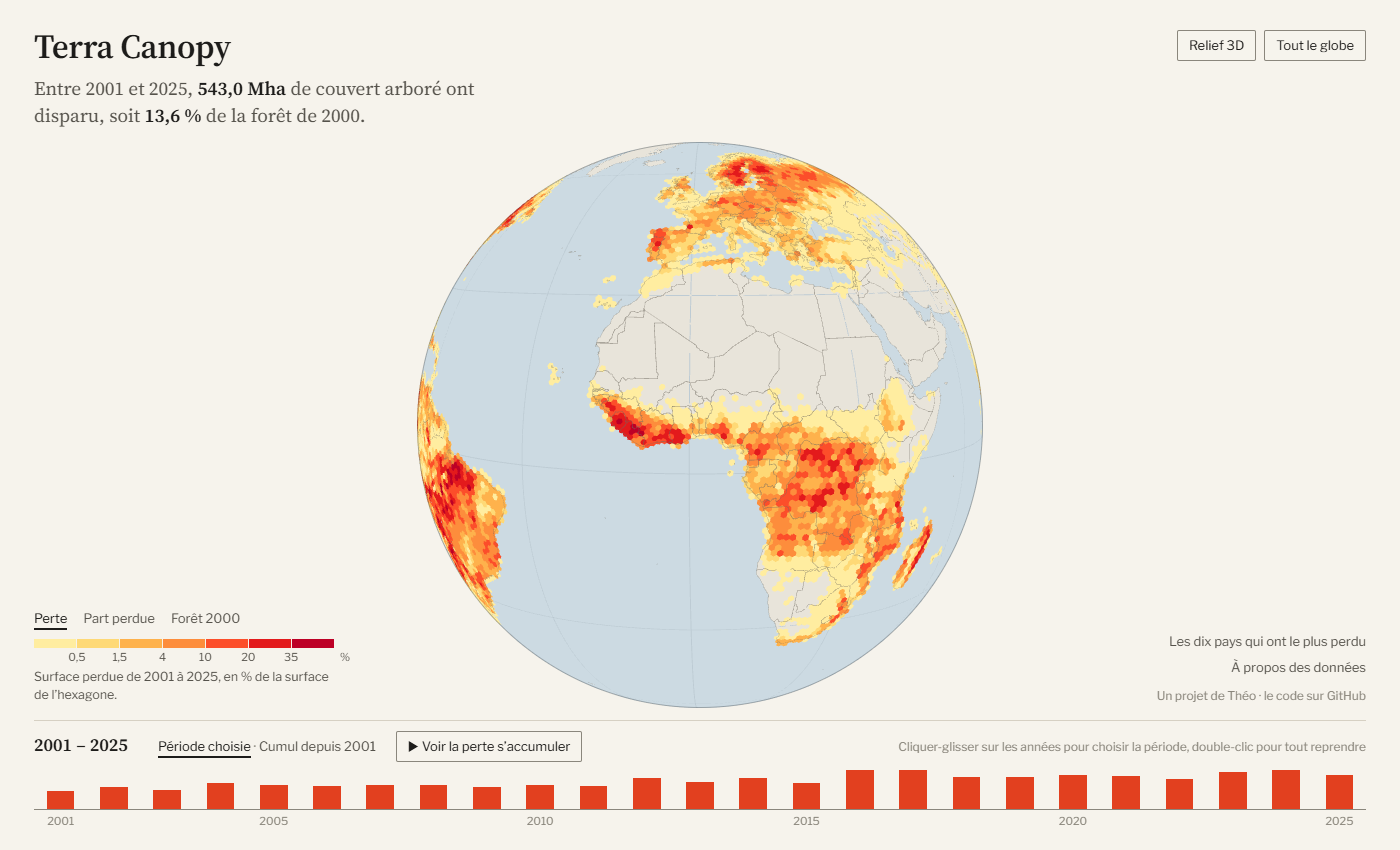
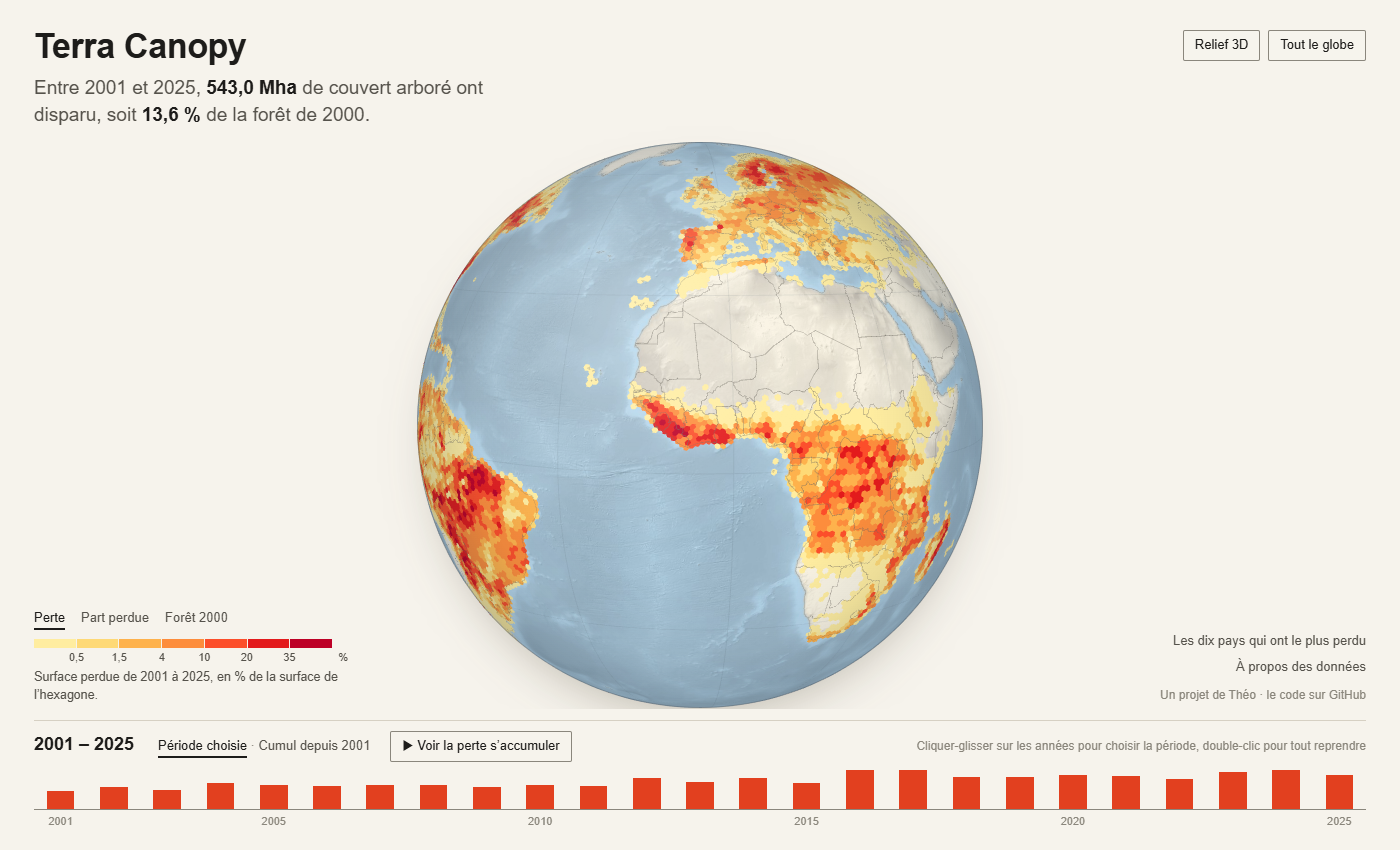
Police Arial, relief ombre Natural Earth sous les hexagones, volume du globe

diff --git a/web/src/style.css b/web/src/style.css
@@ -1,5 +1,5 @@
-/* Style « article de presse » : fond papier, titres a empattements, texte noir, aucun effet de
-   lumiere. Les couleurs vives sont reservees aux donnees. */
+/* Style « article de presse » : fond papier, tout en Arial, texte noir, aucun effet de lumiere.
+   Les couleurs vives sont reservees aux donnees. */
 :root {
   --papier: #f6f3ec;
   --carte-blanche: #fffdf8;
@@ -8,8 +8,7 @@
   --encre-3: #8a867c;
   --filet: #d6d0c3;
   --rouge: #e2401f;
-  --serif: 'Source Serif 4', Georgia, 'Times New Roman', serif;
-  --sans: 'Libre Franklin', 'Helvetica Neue', Arial, sans-serif;
+  --police: Arial, 'Helvetica Neue', Helvetica, sans-serif;
   color-scheme: light;
 }
 
@@ -18,7 +17,7 @@ html, body, #root { margin: 0; height: 100%; }
 body {
   background: var(--papier);
   color: var(--encre);
-  font-family: var(--sans);
+  font-family: var(--police);
   font-size: 14px;
   line-height: 1.45;
   overflow: hidden;
@@ -27,8 +26,19 @@ body {
 .appli { position: relative; width: 100vw; height: 100vh; }
 .carte { position: absolute; inset: 0; overflow: hidden; background: var(--papier); }
 
-/* bord du globe : un simple trait gris, comme sur une carte imprimee */
-.bord-globe { position: absolute; pointer-events: none; border-radius: 50%; border: 1px solid rgba(60, 70, 78, 0.4); }
+/* bord du globe : un trait gris fin et une ombre douce posee sur le papier */
+.bord-globe {
+  position: absolute; pointer-events: none; border-radius: 50%; border: 1px solid rgba(60, 70, 78, 0.35);
+  box-shadow: 0 24px 50px -22px rgba(70, 60, 40, 0.35);
+}
+/* volume du globe : plus sombre vers le bord, un peu plus clair en haut a gauche, comme un globe
+   d'atlas eclaire de biais */
+.volume-globe {
+  position: absolute; pointer-events: none; border-radius: 50%;
+  background:
+    radial-gradient(circle at 36% 30%, rgba(255, 255, 255, 0.22), rgba(255, 255, 255, 0) 45%),
+    radial-gradient(closest-side, rgba(25, 40, 55, 0) 60%, rgba(25, 40, 55, 0.08) 82%, rgba(25, 40, 55, 0.24) 100%);
+}
 
 /* tout ce qui est pose sur le globe : le texte laisse passer la souris, sauf les commandes */
 .habillage { position: absolute; inset: 0; pointer-events: none; z-index: 3; }
@@ -57,8 +67,8 @@ body {
 .habillage .puce[aria-pressed='true'] { background: var(--encre); color: var(--papier); border-color: var(--encre); }
 
 .titre { position: absolute; top: 18px; left: 22px; max-width: 494px; padding: 10px 12px 12px; }
-.titre h1 { margin: 0; font-family: var(--serif); font-size: 34px; font-weight: 600; line-height: 1.1; letter-spacing: -0.01em; }
-.phrase { margin: 10px 0 0; font-family: var(--serif); font-size: 19px; line-height: 1.4; color: var(--encre-2); }
+.titre h1 { margin: 0; font-family: var(--police); font-size: 34px; font-weight: 600; line-height: 1.1; letter-spacing: -0.01em; }
+.phrase { margin: 10px 0 0; font-family: var(--police); font-size: 19px; line-height: 1.4; color: var(--encre-2); }
 .phrase em { font-style: normal; font-weight: 600; color: var(--encre); font-variant-numeric: lining-nums; }
 .sep { color: var(--encre-3); }
 
@@ -93,7 +103,7 @@ body {
 .frise::before { content: ''; position: absolute; z-index: -1; left: -34px; right: -34px; top: -12px; bottom: -20px; background: var(--papier); }
 .frise-tete { display: flex; justify-content: space-between; align-items: baseline; gap: 16px; margin-bottom: 8px; font-size: 12px; color: var(--encre-3); }
 .frise-gauche { display: flex; align-items: baseline; flex-wrap: wrap; column-gap: 20px; row-gap: 6px; }
-.frise-periode { font-family: var(--serif); font-size: 18px; font-weight: 600; color: var(--encre); min-width: 104px; font-variant-numeric: tabular-nums; }
+.frise-periode { font-family: var(--police); font-size: 18px; font-weight: 600; color: var(--encre); min-width: 104px; font-variant-numeric: tabular-nums; }
 .frise-modes { font-size: 13px; }
 .frise-barres {
   display: flex; height: 40px; border-bottom: 1px solid var(--encre-3);
@@ -114,10 +124,10 @@ body {
   border: 1px solid var(--filet); box-shadow: 0 6px 24px rgba(40, 35, 25, 0.12);
   font-size: 14px; text-shadow: none;
 }
-.volet h2 { margin: 0 0 10px; font-family: var(--serif); font-size: 18px; font-weight: 600; line-height: 1.3; }
-.volet p { margin: 8px 0 0; font-family: var(--serif); font-size: 15px; line-height: 1.5; color: var(--encre-2); }
+.volet h2 { margin: 0 0 10px; font-family: var(--police); font-size: 18px; font-weight: 600; line-height: 1.3; }
+.volet p { margin: 8px 0 0; font-family: var(--police); font-size: 15px; line-height: 1.5; color: var(--encre-2); }
 .volet a { color: var(--encre); text-decoration-color: var(--encre-3); }
-.volet .note { font-family: var(--sans); font-size: 12px; color: var(--encre-3); }
+.volet .note { font-family: var(--police); font-size: 12px; color: var(--encre-3); }
 .classement { margin: 0; padding-left: 22px; color: var(--encre-3); font-size: 12px; font-variant-numeric: tabular-nums; }
 .classement li { border-bottom: 1px solid #ece7dc; }
 .classement button {
@@ -136,12 +146,12 @@ body {
   border-radius: 2px;
   padding: 9px 12px !important;
   color: var(--encre) !important;
-  font-family: var(--sans);
+  font-family: var(--police);
   font-size: 13px;
   min-width: 210px;
   box-shadow: 0 4px 16px rgba(40, 35, 25, 0.15);
 }
-.bulle-titre { margin-bottom: 5px; font-family: var(--serif); font-size: 15px; font-weight: 600; }
+.bulle-titre { margin-bottom: 5px; font-family: var(--police); font-size: 15px; font-weight: 600; }
 .bulle-ligne { display: flex; justify-content: space-between; gap: 12px; color: var(--encre-2); }
 .bulle-ligne b { font-weight: 600; color: var(--encre); font-variant-numeric: tabular-nums; }
 .bulle-graphique { display: block; margin-top: 7px; }

diff --git a/web/src/App.jsx b/web/src/App.jsx
@@ -3,13 +3,14 @@ import DeckGL from '@deck.gl/react';
 import {
   _GlobeView as GlobeView,
   _GlobeViewport as GlobeViewport,
+  COORDINATE_SYSTEM,
   AmbientLight,
   DirectionalLight,
   LightingEffect,
   LinearInterpolator,
 } from '@deck.gl/core';
 import { H3HexagonLayer } from '@deck.gl/geo-layers';
-import { GeoJsonLayer, PathLayer, SolidPolygonLayer } from '@deck.gl/layers';
+import { BitmapLayer, GeoJsonLayer, PathLayer, SolidPolygonLayer } from '@deck.gl/layers';
 import { latLngToCell } from 'h3-js';
 
 import { chargerBase, chargerPaquet, valeur, perte, formaterHa, formaterPart, formaterKm2 } from './donnees.js';
@@ -17,9 +18,12 @@ import { couleur, hauteur, echellePeriode, seuilsPour, FACTEUR_MIN, FACTEUR_MAX,
 import Panneau from './Panneau.jsx';
 
 const VUE_GLOBE = new GlobeView({ id: 'globe', resolution: 5 });
-// couleurs claires de carte imprimee : ocean gris-bleu, terres beige clair
-const OCEAN = [204, 218, 226];
-const TERRE = [232, 228, 218];
+// fond de carte : relief ombre de Natural Earth (1:50m, terres et fonds marins), colore en creme
+// pour les terres et en bleu pour l'ocean (script pipeline/fond_relief.py). L'ocean et les terres en
+// aplat restent dessous, le temps que l'image arrive.
+const FOND_RELIEF = `${import.meta.env.BASE_URL}fond-relief.jpg`;
+const OCEAN = [172, 203, 222];
+const TERRE = [238, 232, 217];
 const MONDE = [[[-180, 90], [0, 90], [180, 90], [180, -90], [0, -90], [-180, -90]]];
 const ARETE_KM = { 2: 182.5, 3: 69.0, 4: 26.07, 5: 9.85, 6: 3.72 }; // cote moyen des hexagones H3 (h3 4.5, average_hexagon_edge_length)
 const ARETE_MIN_PX = 3; // on prend la resolution la plus fine dont les hexagones font au moins ca a l'ecran
@@ -146,6 +150,7 @@ export default function App() {
   const [lecture, setLecture] = useState(false);
   const [affiche, setAffiche] = useState({ r: 2, hexagones: [] });
   const [chargement, setChargement] = useState(false);
+  const [fondRelief, setFondRelief] = useState(null);
   const touche = useRef(false); // le globe tourne seul tant qu'on n'y a pas touche
   const carte = useRef(null);
 
@@ -156,6 +161,14 @@ export default function App() {
         setPeriode([0, d.resume.annees.length - 1]);
       })
       .catch((e) => setErreur(e.message));
+  }, []);
+
+  // l'image du relief est chargee a part : tant qu'elle n'est pas la, on affiche l'ocean et les
+  // terres en aplat, puis on les retire (deux surfaces a la meme altitude se melangent a l'ecran)
+  useEffect(() => {
+    const image = new Image();
+    image.onload = () => setFondRelief(image);
+    image.src = FOND_RELIEF;
   }, []);
 
   // taille de la zone de carte, pour calculer le zoom de depart et ce qui est visible
@@ -266,6 +279,10 @@ export default function App() {
     lumiere.soleil.direction = l.map((x) => -x / nl);
   }
   const montrerBord = bord && taille && bord.rx < 4 * Math.max(taille.largeur, taille.hauteur);
+  // l'ombrage qui donne du volume au globe s'efface quand on s'approche : de pres, il assombrirait
+  // seulement un cote de l'ecran
+  const grand = taille ? Math.max(taille.largeur, taille.hauteur) : 1;
+  const opaciteVolume = montrerBord ? Math.min(1, Math.max(0, (1.2 * grand - bord.rx) / (0.5 * grand))) : 0;
 
   const resolution = vue ? choisirResolution(vue) : 2;
 
@@ -307,7 +324,19 @@ export default function App() {
 
   const couches = donnees
     ? [
-        new SolidPolygonLayer({ id: 'ocean', data: MONDE, getPolygon: (d) => d, getFillColor: OCEAN }),
+        ...(fondRelief
+          ? [
+              new BitmapLayer({
+                id: 'relief-du-terrain',
+                image: fondRelief,
+                bounds: [-180, -90, 180, 90],
+                _imageCoordinateSystem: COORDINATE_SYSTEM.LNGLAT,
+              }),
+            ]
+          : [
+              new SolidPolygonLayer({ id: 'ocean', data: MONDE, getPolygon: (d) => d, getFillColor: OCEAN }),
+              new GeoJsonLayer({ id: 'terres', data: donnees.terres, filled: true, stroked: false, getFillColor: TERRE }),
+            ]),
         new PathLayer({
           id: 'grille',
           data: GRILLE,
@@ -316,7 +345,6 @@ export default function App() {
           getWidth: 1,
           widthUnits: 'pixels',
         }),
-        new GeoJsonLayer({ id: 'terres', data: donnees.terres, filled: true, stroked: false, getFillColor: TERRE }),
         new H3HexagonLayer({
           id: `hexagones-${affiche.r}`,
           data: affiche.hexagones,
@@ -401,7 +429,14 @@ export default function App() {
             getTooltip={({ object }) => (donnees ? infobulle(object, donnees, debut, fin) : null)}
           />
         )}
-        {/* bord du globe : un trait gris fin */}
+        {/* volume du globe : un ombrage doux vers le bord et un peu de clarte en haut a gauche, puis
+            le trait gris fin du bord */}
+        {montrerBord && opaciteVolume > 0 && (
+          <div
+            className="volume-globe"
+            style={{ left: bord.cx - bord.rx, top: bord.cy - bord.ry, width: 2 * bord.rx, height: 2 * bord.ry, opacity: opaciteVolume }}
+          />
+        )}
         {montrerBord && (
           <div className="bord-globe" style={{ left: bord.cx - bord.rx, top: bord.cy - bord.ry, width: 2 * bord.rx, height: 2 * bord.ry }} />
         )}

diff --git a/web/src/Panneau.jsx b/web/src/Panneau.jsx
@@ -241,7 +241,7 @@ export default function Panneau({
           <p>
             Données : <a href="https://glad.earthengine.app/view/global-forest-change" target="_blank" rel="noreferrer">Hansen et al. (2013), Science 342</a>,
             version {resume.version}, {resume.nb_tuiles} tuiles de pixels de 30 m regroupées en hexagones H3.
-            Pays : <a href="https://www.naturalearthdata.com/" target="_blank" rel="noreferrer">Natural Earth</a>.
+            Pays et relief du fond de carte : <a href="https://www.naturalearthdata.com/" target="_blank" rel="noreferrer">Natural Earth</a>.
           </p>
           <p>
             Projet réalisé par Théo (theocode31). Le code, le calcul et le journal du projet sont sur{' '}

diff --git a/web/index.html b/web/index.html
@@ -5,9 +5,6 @@
     <meta name="viewport" content="width=device-width, initial-scale=1.0" />
     <meta name="description" content="Carte mondiale de la perte de couvert arboré de 2001 à 2025, d'après Hansen Global Forest Change, agrégée en hexagones H3." />
     <title>Terra Canopy</title>
-    <link rel="preconnect" href="https://fonts.googleapis.com" />
-    <link rel="preconnect" href="https://fonts.gstatic.com" crossorigin />
-    <link href="https://fonts.googleapis.com/css2?family=Libre+Franklin:wght@400;500;600&family=Source+Serif+4:opsz,wght@8..60,400;8..60,600&display=swap" rel="stylesheet" />
   </head>
   <body>
     <div id="root"></div>

diff --git a/pipeline/fond_relief.py b/pipeline/fond_relief.py
@@ -1,0 +1,61 @@
+"""Fond de carte pour Terra Canopy : relief ombre de Natural Earth (Gray Earth with Shaded Relief,
+Hypsography and Ocean Bottom, 1:50m), colore en creme pour les terres et en bleu pour l'ocean.
+
+usage : python -I fond_relief.py <zip> <terres.json> <sortie.jpg> <apercu.png>
+"""
+import json
+import sys
+import zipfile
+from pathlib import Path
+
+import numpy as np
+from PIL import Image, ImageDraw, ImageFilter
+
+Image.MAX_IMAGE_PIXELS = None
+LARGEUR, HAUTEUR = 4096, 2048
+TERRE = np.array([238, 232, 217], dtype=np.float32)
+OCEAN = np.array([172, 203, 222], dtype=np.float32)
+
+zip_chemin, terres_chemin, sortie, apercu = map(Path, sys.argv[1:5])
+
+# extraction prudente : seulement les fichiers a la racine de l'archive
+dossier = zip_chemin.parent / 'x'
+dossier.mkdir(exist_ok=True)
+with zipfile.ZipFile(zip_chemin) as z:
+    for info in z.infolist():
+        n = info.filename
+        if '/' in n or '\\' in n or '..' in n:
+            continue
+        z.extract(info, dossier)
+tif = next(dossier.glob('*.tif'))
+print('raster', tif.name)
+
+img = Image.open(tif)
+print('taille', img.size, img.mode)
+gris = np.asarray(img.convert('L').resize((LARGEUR, HAUTEUR), Image.LANCZOS), dtype=np.float32) / 255
+
+# masque des terres, a partir des memes polygones que les frontieres du site
+masque = Image.new('L', (LARGEUR, HAUTEUR), 0)
+dessin = ImageDraw.Draw(masque)
+def px(lon, lat):
+    return ((lon + 180) / 360 * LARGEUR, (90 - lat) / 180 * HAUTEUR)
+for f in json.loads(terres_chemin.read_text(encoding='utf-8'))['features']:
+    g = f['geometry']
+    polys = [g['coordinates']] if g['type'] == 'Polygon' else g['coordinates']
+    for p in polys:
+        dessin.polygon([px(*c[:2]) for c in p[0]], fill=255)
+m = np.asarray(masque.filter(ImageFilter.GaussianBlur(1.2)), dtype=np.float32) / 255
+
+terre, mer = m > 0.5, m < 0.5
+for nom, sel in (('terre', terre), ('ocean', mer)):
+    print(nom, 'percentiles 5/25/50/75/95', np.percentile(gris[sel], [5, 25, 50, 75, 95]).round(3))
+
+med_t, med_o = np.median(gris[terre]), np.percentile(gris[mer], 75)
+f_t = np.clip(gris / med_t, 0.82, 1.05)
+f_o = np.clip(gris / med_o, 0.72, 1.06)
+rgb = m[..., None] * (TERRE * f_t[..., None]) + (1 - m[..., None]) * (OCEAN * f_o[..., None])
+rgb = np.clip(rgb, 0, 255).astype(np.uint8)
+out = Image.fromarray(rgb, 'RGB')
+out.save(sortie, quality=84, optimize=True, progressive=True)
+out.resize((1600, 800), Image.LANCZOS).save(apercu)
+print('ecrit', sortie, sortie.stat().st_size // 1024, 'Ko')

diff --git a/README.md b/README.md
@@ -76,6 +76,8 @@ Finalement le violet d'inferno pour les petites pertes ne rendait pas bien. La p
 
 Le style « écran de contrôle » faisait trop gadget, alors je suis reparti vers quelque chose de plus sobre, comme une carte de journal. Le fond est couleur papier, le titre et la phrase sont dans une police à empattements (Source Serif), et le reste en Libre Franklin. J'ai enlevé l'anneau gradué, les lueurs, la grille, les coins de visée, les étoiles et le relevé de position. Le globe a juste un trait gris fin autour, avec un océan gris-bleu et des terres beige clair. Le jaune-rouge est fait pour un fond clair, donc il marche mieux qu'avant. Pour que le texte reste lisible quand on zoome, il est posé sur des encarts couleur papier, qu'on ne voit pas quand le globe est en entier, et la frise est sur une bande pleine en bas. Le globe est aussi un peu plus petit au départ, pour ne plus passer sous la frise.
 
+Ensuite j'ai tout passé en Arial, c'est plus simple et plus net. Et j'ai voulu une planète plus jolie, un peu comme un globe d'atlas. Sous les hexagones, il y a maintenant le relief ombré de Natural Earth (Gray Earth with Shaded Relief, Hypsography and Ocean Bottom, au 1:50m), qui montre les montagnes et le fond des océans. Le script `pipeline/fond_relief.py` réduit l'image à 4096 × 2048 pixels, met les terres en crème et l'océan en bleu, en gardant les ombres. Au premier essai, l'aplat des terres et l'image du relief étaient à la même altitude et se mélangeaient à l'écran, avec des rectangles bizarres sur le Sahara. Maintenant l'aplat ne sert plus qu'en attendant que l'image soit chargée. Enfin le globe a un peu de volume : il est plus sombre vers le bord, un peu plus clair en haut à gauche, et il pose une ombre douce sur le papier.
+
 ## Ce que montre la carte
 
 | | Ce projet | Global Forest Watch |
@@ -148,4 +150,4 @@ web/
 - Hansen, M. C. et al. (2013). High-Resolution Global Maps of 21st-Century Forest Cover Change. Science 342, 850-853. Données (version GFC-2025-v1.13, licence CC BY 4.0) : https://glad.earthengine.app/view/global-forest-change
 - Global Forest Watch / WRI : https://gfr.wri.org/
 - H3, la grille d'hexagones : https://h3geo.org/
-- Natural Earth, pour les pays : https://www.naturalearthdata.com/
+- Natural Earth, pour les pays et le relief du fond de carte (Gray Earth with Shaded Relief, Hypsography and Ocean Bottom, 1:50m) : https://www.naturalearthdata.com/
